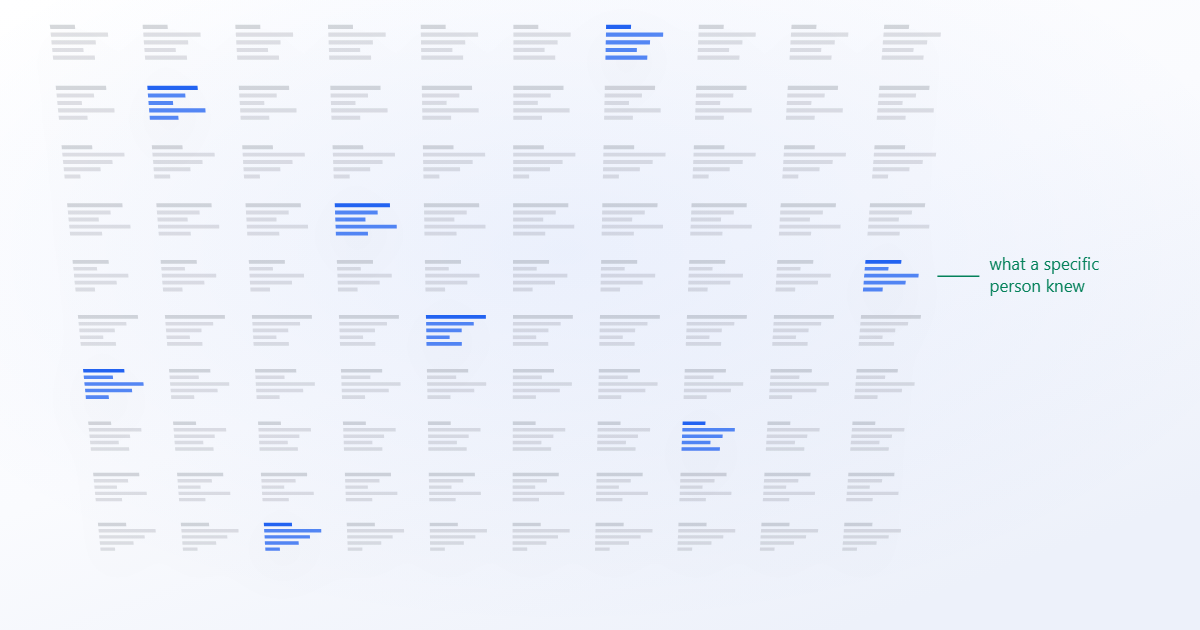
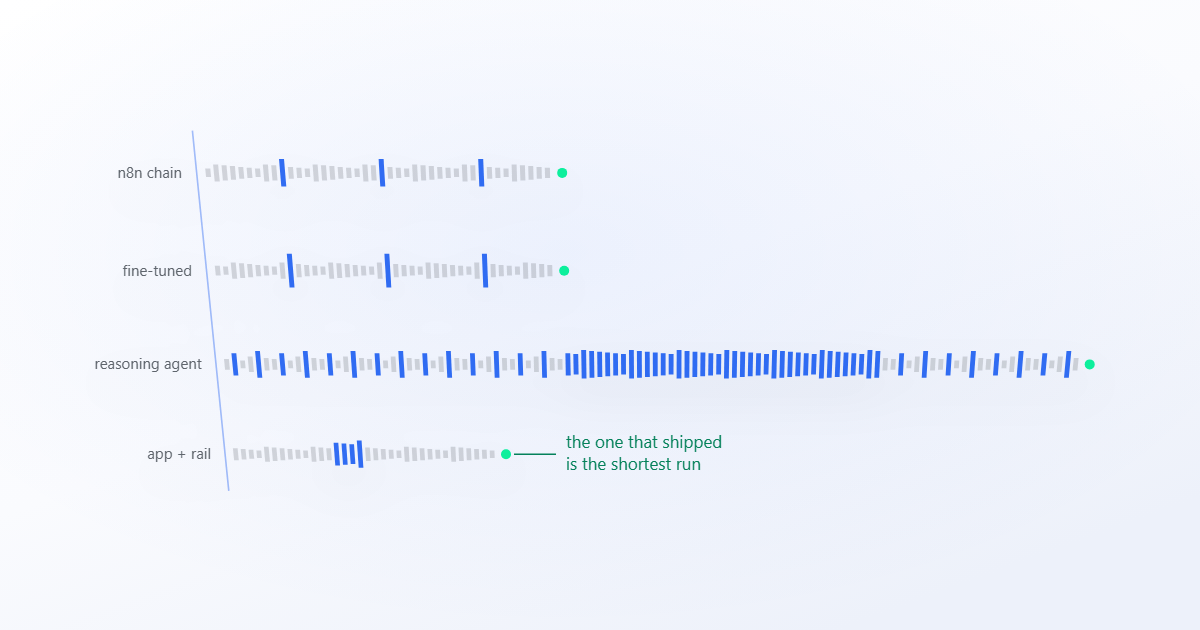
Draw the evolution as four traces of one job
The cover has to show four archetypes changing shape while the job stays the
same, and a field of articles does not do that. This draws each architecture
as what it actually does: one article produced left to right, one tick per
step, grey where code decides and blue where a model runs.

The silhouettes carry it without a box or an arrow. Three model calls in a
fixed frame. The same frame with heavier weights, because the fine-tune
changed the model and not the shape. A long irregular run that bunches where
it could not settle. Then a short quiet one, which is the version that shipped.

They share a start rail and each ends on its own terminal mark, so four runs
read as four attempts at one job rather than four unrelated charts.

Tick heights and model positions come from formulas over the step index, so a
rebuild reproduces the image rather than quietly redesigning it. The
annotation is anchored off the last terminal dot: the previous placement hung
in the white the short rows leave behind and pointed at nothing.

diff --git a/scripts/make-seo-history-visuals.py b/scripts/make-seo-history-visuals.py
@@ -85,51 +85,64 @@ def loop_arc(p: Plane, u0, u1, v, height=0.075, delay=0.0, o=0.55):
 # It animates in that order. The brief is typed, the machine arrives, the loop
 # draws itself last and does not resolve.
 
-COLS, ROWS = 10, 10
-
-# The ones with something specific in them. A literal, not a random draw: a
-# rebuild has to reproduce the image exactly or it becomes a silent redesign.
-# (9, 4) is the one the annotation lands on, so it stays where it is.
-SPECIFIC = {(1, 1), (6, 0), (3, 3), (0, 6), (7, 7), (4, 5), (2, 9), (9, 4)}
+# Four traces of one article being produced, in the order the architectures
+# happened. A step is a tick; a tick is blue when a model runs inside it. The
+# silhouette of each row is the archetype, so the evolution is legible without
+# a single box or arrow.
+#
+# `model` is a predicate over the step index, not a random draw, so a rebuild
+# reproduces the image instead of quietly redesigning it.
+TRACES = [
+    ("n8n chain", 42, lambda i: i in (9, 21, 33)),
+    ("fine-tuned", 42, lambda i: i in (9, 21, 33)),
+    ("reasoning agent", 108, lambda i: i % 3 == 1 or 44 <= i < 82),
+    ("app + rail", 34, lambda i: 13 <= i <= 16),
+]
 
 
 def cover():
-    """Content at scale, which is the thing this whole post is about.
+    """Four architectures doing one job, drawn as what each one actually does.
 
-    Ninety-nine articles laid out on the plane, four lines each. Almost all of
-    them grey. The handful in blue are the ones with something in them that
-    came from a person who knew something specific, which is the property
-    Google named in 2024 and the property the last section is about.
+    Every row is one article being produced, left to right, one tick per step.
+    Grey is a step code decides; blue is a step where a model runs. They share
+    a start rail and each ends on its own terminal mark, so the same job is
+    visible while the shapes are not: three model calls in a fixed frame, then
+    the same frame with heavier weights, then a long irregular run that bunches
+    where it could not settle, then a short quiet one.
 
-    Line lengths come from a formula so the field has the texture of prose
-    rather than the regularity of a grid, and so it redraws identically.
+    Tick heights come from a formula, so the rows read as a recording rather
+    than a diagram, and so a rebuild reproduces the image exactly.
     """
-    # Set left of centre so the right of the canvas is free for the one
-    # annotation. Deep enough that the far rows visibly converge.
-    p = Plane(506, 306, 872, 660, umax=COLS, vmax=ROWS)
+    p = Plane(660, 318, 880, 452, umax=112, vmax=len(TRACES))
     m = []
+    ends = []
 
-    for j in range(ROWS):
-        for i in range(COLS):
-            special = (i, j) in SPECIFIC
-            fill = BLUE if special else MUTED
-            base = 0.66 if special else 0.19
-            delay = 0.018 * i + 0.055 * j
-            for k in range(5):
-                # Deterministic ragged right edge, the way set prose looks.
-                w = 0.32 + 0.50 * (((i * 7 + j * 11 + k * 5) % 7) / 6.0)
-                if k == 4:
-                    w *= 0.66
-                m.append(textline(p, i + 0.08, i + 0.08 + w * 0.84,
-                                  j + 0.20 + k * 0.125, 0.068,
-                                  base if k else base * 1.3,
-                                  delay + k * 0.010, fill, "type"))
+    for j, (label, steps, is_model) in enumerate(TRACES):
+        v = j + 0.5
+        m.append(text(p, -3.0, v + 0.055, label, 15, MUTED, anchor="end"))
+        for i in range(steps):
+            model = is_model(i)
+            # Deterministic, and taller where a model runs so the blue carries
+            # weight without a second colour.
+            h = 0.085 + 0.085 * (((i * 5 + j * 7) % 6) / 5.0) + (0.14 if model else 0)
+            if j == 1 and model:
+                h += 0.06          # the fine-tune changed the model, not the shape
+            m.append(slab(p, i * 1.02, v - h / 2, i * 1.02 + 0.62, v + h / 2,
+                          BLUE if model else MUTED,
+                          0.80 if model else 0.24,
+                          0.30 * j + 0.006 * i, cls="type"))
+        m.append(dot(p, steps * 1.02 + 1.1, v, 5.0, ACCENT, 1.0, 0.30 * j + 0.006 * steps))
+        ends.append(p(steps * 1.02 + 1.1, v))
 
-    # Anchor on the blue article at (9, 4), whose right side is the last ink on
-    # that row, so the leader crosses white and lands on the mark it names.
-    ax, ay = p(9 + 0.80, 4 + 0.46)
+    # The start rail, so four different runs read as four attempts at one job.
+    m.append(connect(p, (-1.1, 0.08), (-1.1, len(TRACES) - 0.08), o=0.35, width=1.6))
+
+    # Point at the last run's terminal mark, which is the earliest of the four.
+    # The leader has to land on ink, so it is anchored off that dot rather than
+    # dropped into the white the short rows leave behind.
+    ex, ey = ends[-1]
     return wrap(lifted("".join(m))
-                + note(ax + 52, ay, ["what a specific", "person knew"]))
+                + note(ex + 50, ey, ["the one that shipped", "is the shortest run"]))
 
 
 # ----------------------------------------------------------------- slide 1
